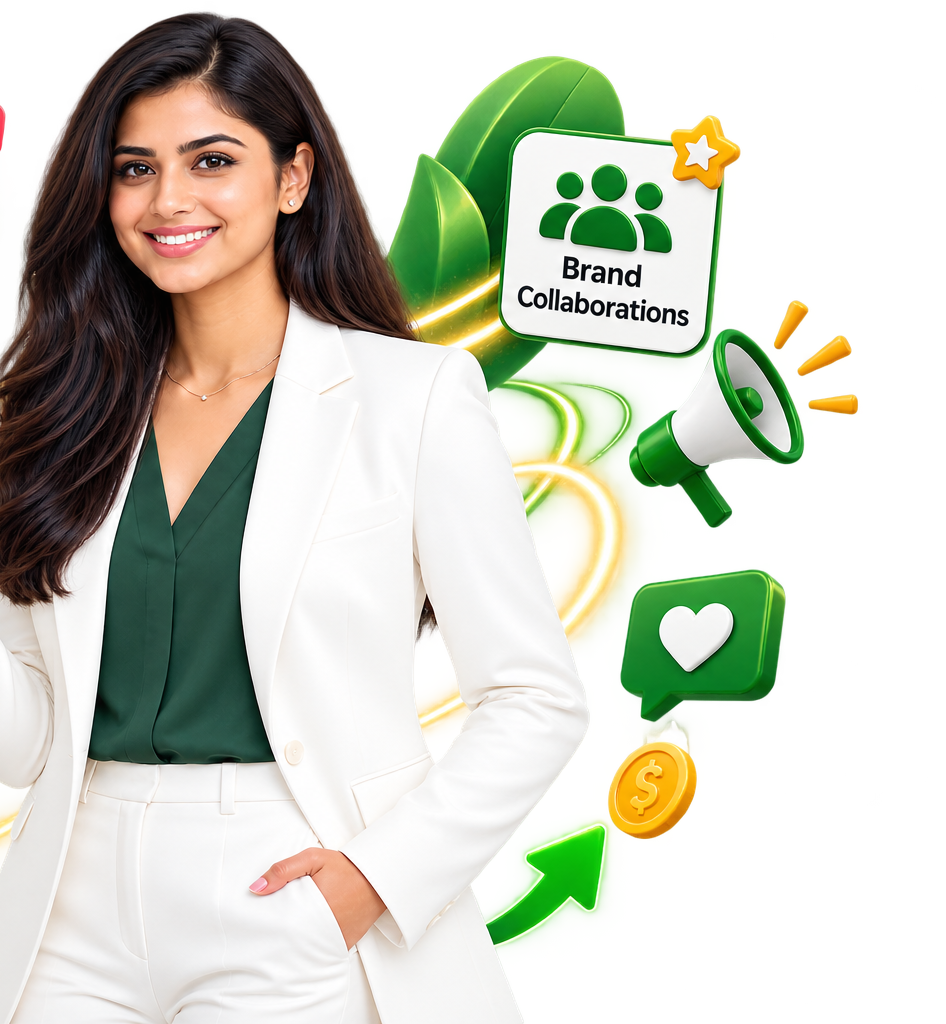
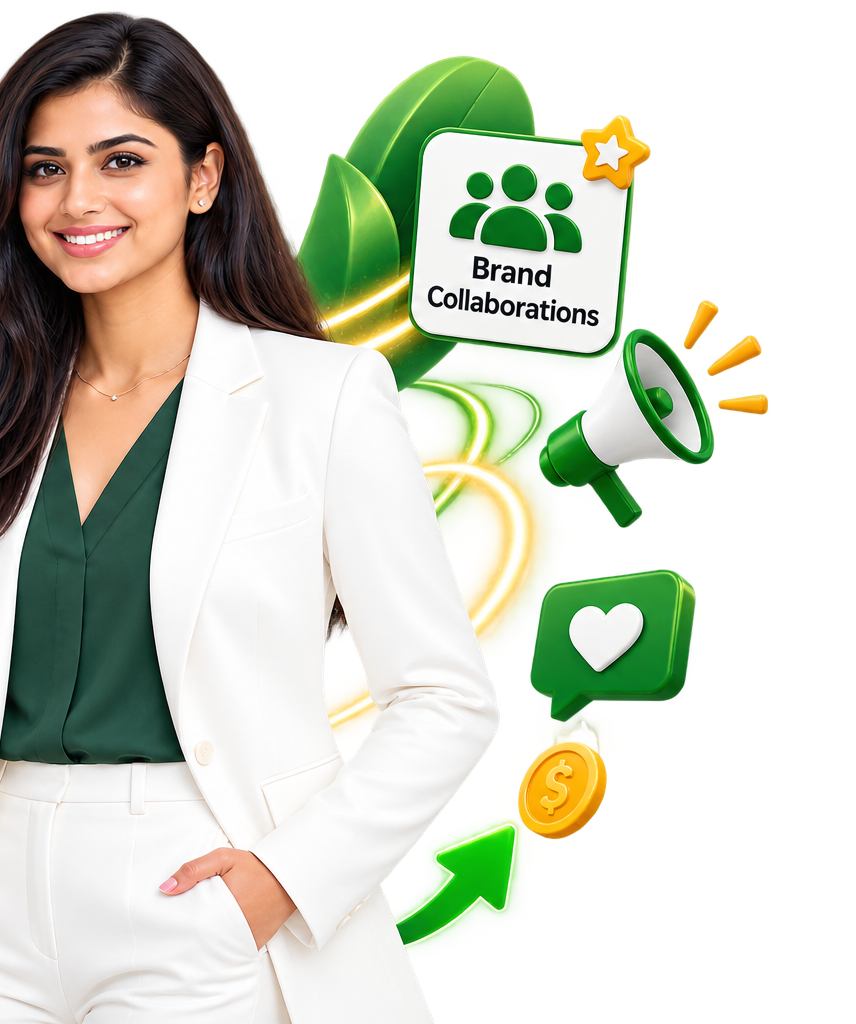
Fix broken homepage category links and influencer hero crop artifact
- Homepage "View all Categories" link and every category tile used href="#"
  and did nothing when clicked; now they route to /categories/main.
- The influencer page hero photo crop sliced through the model's raised arm,
  leaving a disconnected sleeve fragment floating at the edge; re-cropped
  past the arm entirely so the figure reads as a complete, clean cutout.

diff --git a/src/components/site/categories.tsx b/src/components/site/categories.tsx
@@ -1,3 +1,4 @@
+import Link from "next/link";
 import { ArrowRight } from "lucide-react";
 import { categories } from "@/lib/site-data";
 
@@ -14,20 +15,20 @@ export function Categories() {
               Find Businesses in Every Industry
             </h2>
           </div>
-          <a
-            href="#"
+          <Link
+            href="/categories/main"
             className="group flex items-center gap-1.5 text-[13.5px] font-semibold text-[#E6C86C] transition-colors hover:text-[#F0D890]"
           >
             View all Categories
             <ArrowRight className="h-4 w-4 transition-transform group-hover:translate-x-1" />
-          </a>
+          </Link>
         </div>
 
         <div className="mt-8 grid grid-cols-2 gap-3.5 sm:grid-cols-3 lg:grid-cols-7">
           {categories.map(({ name, icon: Icon, count }) => (
-            <a
+            <Link
               key={name}
-              href="#"
+              href="/categories/main"
               className="group flex flex-col items-center gap-2.5 rounded-2xl border border-white/10 bg-[#05160E] px-3 py-6 text-center transition-all duration-300 hover:-translate-y-1 hover:border-[#E6C86C]/40 hover:bg-[#0A2013]"
             >
               <span className="flex h-11 w-11 items-center justify-center rounded-full border border-[#E6C86C]/30 text-[#E6C86C] transition-colors group-hover:bg-[#E6C86C]/10">
@@ -35,7 +36,7 @@ export function Categories() {
               </span>
               <span className="text-[13px] font-semibold leading-tight text-white">{name}</span>
               <span className="text-[11px] text-white/45">{count}</span>
-            </a>
+            </Link>
           ))}
         </div>
       </div>
